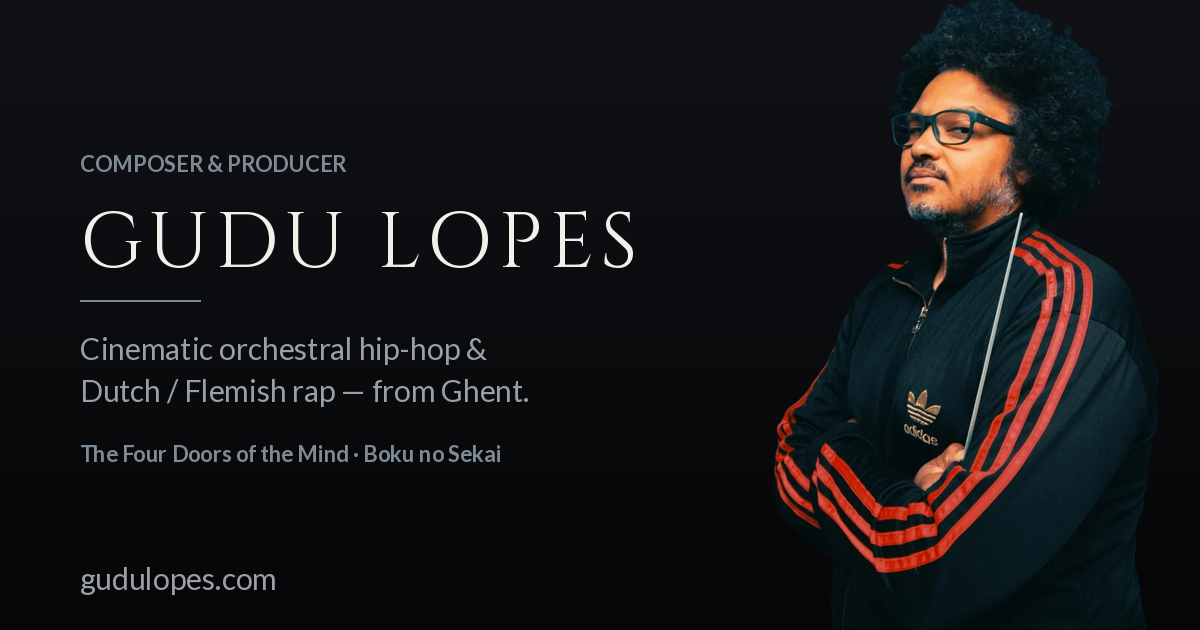
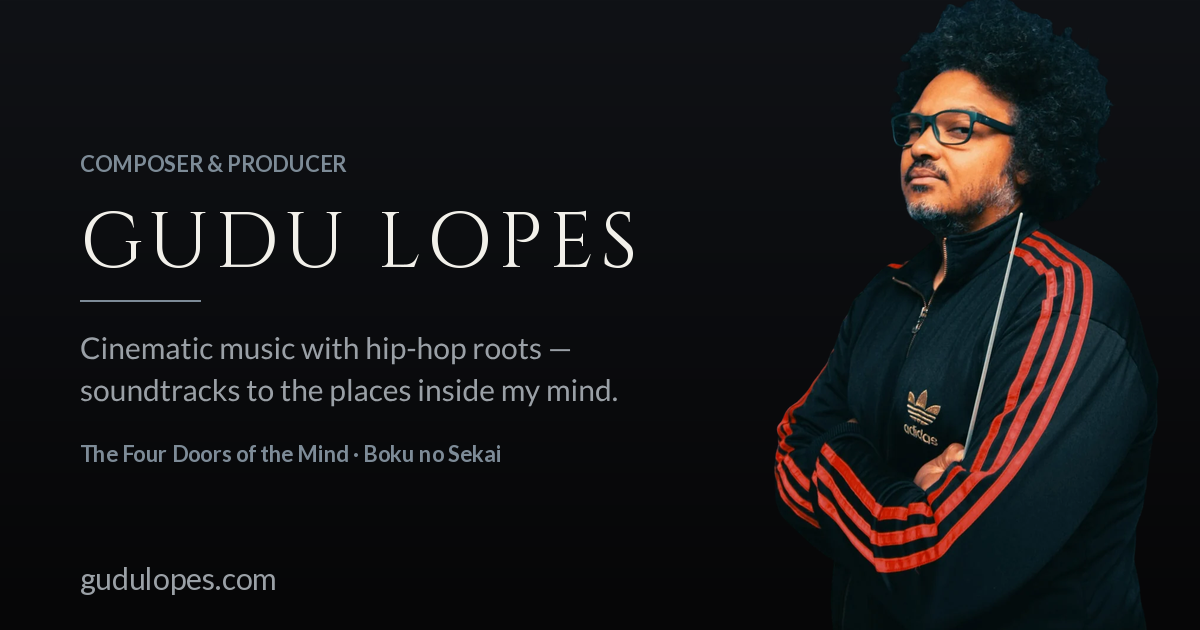
v3.7: new tagline and definition (decided 5 Nov 2026)
- Homepage tagline: "Cinematic music with hip-hop roots — soundtracks to
  the places inside my mind."
- Definition added as the first paragraph of the About section; the
  overlapping Four Doors sentence removed from the old bio
- Homepage search/share description opens with the third-person tagline
- og-image.png: old genre line replaced by the new tagline (same font,
  size, position)
- HANDOFF.md changelog

Claude-Session: https://claude.ai/code/session_0131rdzpW8RGRXcQddgxGeya

Changed region(s): [[0.0617, 0.6032, 0.5242, 0.6635], [0.0617, 0.5429, 0.4625, 0.573]]

diff --git a/index.html b/index.html
@@ -7,12 +7,12 @@
     <!-- EDIT: PAGE TITLE (browser tab + Google result) -->
     <title>Gudu Lopes | Composer &amp; Producer</title>
     <!-- EDIT: SEARCH DESCRIPTION -->
-    <meta name="description" content="Gudu Lopes — composer and producer from Ghent, Belgium. Cinematic orchestral hip-hop (Four Doors of the Mind) and Dutch/Flemish rap (Boku no Sekai). Listen on Spotify, Apple Music and YouTube.">
+    <meta name="description" content="Cinematic music with hip-hop roots — soundtracks to the places inside his mind. Gudu Lopes, composer and producer from Ghent, Belgium. Listen on Spotify, Apple Music and YouTube.">
 
     <meta property="og:type" content="music.musician">
     <meta property="og:site_name" content="Gudu Lopes">
     <meta property="og:title" content="Gudu Lopes | Composer &amp; Producer">
-    <meta property="og:description" content="Gudu Lopes — composer and producer from Ghent, Belgium. Cinematic orchestral hip-hop (Four Doors of the Mind) and Dutch/Flemish rap (Boku no Sekai). Listen on Spotify, Apple Music and YouTube.">
+    <meta property="og:description" content="Cinematic music with hip-hop roots — soundtracks to the places inside his mind. Gudu Lopes, composer and producer from Ghent, Belgium. Listen on Spotify, Apple Music and YouTube.">
     <meta property="og:url" content="https://gudulopes.com/">
     <meta property="og:image" content="https://gudulopes.com/assets/images/og-image.png">
     <meta property="og:image:width" content="1200">
@@ -75,7 +75,7 @@
                 <div class="hero-text">
                     <h1>GUDU LOPES</h1>
                     <!-- EDIT: TAGLINE -->
-                    <p class="tagline">Composer &amp; producer from Ghent — from orchestral hip-hop to Dutch rap.</p>
+                    <p class="tagline">Cinematic music with hip-hop roots — soundtracks to the places inside my mind.</p>
                 </div>
                 <!-- EDIT: HERO FIGURE — swap the src to change the photo. -->
                 <figure class="hero-figure">
@@ -168,8 +168,10 @@
                         <img src="assets/images/gudu-portrait.webp" alt="Gudu Lopes as his conductor persona Innah Chill Do, arms crossed and holding a baton" width="653" height="1100" loading="lazy">
                     </figure>
                     <div class="bio-text">
+                        <!-- Definition (decided 5 Nov 2026): keep this paragraph word for word. -->
+                        <p>Gudu Lopes writes cinematic music from his own life (family, memory, Cabo Verde, letting go) and from the fantasy worlds he loves, often both at once. His <strong>Four Doors of the Mind</strong> series follows how the mind deals with pain. He composes like a film composer and builds the tracks like a beatmaker.</p>
                         <p>Born in Cabo Verde and raised in Antwerp, Belgium, Gudu Lopes is a composer and producer based in Ghent. His journey began in 1997 with the hip-hop group <em>Rapperz van de Ronde Tafel</em>, where he first explored lyricism and beat-making — building tracks from samples lifted out of movie soundtracks.</p>
-                        <p>Still largely self-taught, Gudu is driven by a sound of his own: orchestral instruments woven through hip-hop rhythm. His <strong>Four Doors of the Mind</strong> series threads deeply human experiences — love, loss, longing — through a lifelong pull toward fantasy, sci-fi and anime. Alongside it, under the name <strong>G-Tone / Anubis</strong>, he writes and performs Dutch and Flemish rap — always as the composer behind the music.</p>
+                        <p>Still largely self-taught, Gudu is driven by a sound of his own: orchestral instruments woven through hip-hop rhythm. Alongside his cinematic work, under the name <strong>G-Tone / Anubis</strong>, he writes and performs Dutch and Flemish rap — always as the composer behind the music.</p>
                     </div>
                 </div>
             </div>

diff --git a/HANDOFF.md b/HANDOFF.md
@@ -274,6 +274,26 @@ comments. Change a value, commit, whole site updates.
 
 ## 11. Changelog
 
+**2026-11-05 — v3.7: new tagline and definition**
+- **Homepage tagline** (under the name) is now: "Cinematic music with
+  hip-hop roots — soundtracks to the places inside my mind." Replaces
+  "Composer & producer from Ghent — from orchestral hip-hop to Dutch rap."
+  _Why (decided in the release project, 5 Nov 2026):_ it says what a visitor
+  will hear instead of listing genres; Dutch rap moves to its own channel;
+  first person matches the site's voice; "roots", not "beats", stays true for
+  the ambient tracks. Don't revert.
+- **Definition** added as the first paragraph of the homepage About section,
+  word for word. The old sentence "His Four Doors of the Mind series threads
+  deeply human experiences…" was removed because the definition now says it;
+  "Alongside it" became "Alongside his cinematic work".
+- **Search / share description** of the homepage now opens with the
+  third-person tagline ("…inside his mind").
+- **`og-image.png`** (the card shown when the site is shared): the line
+  "Cinematic orchestral hip-hop & Dutch / Flemish rap — from Ghent." replaced
+  by the new tagline, same font, size and position. Nothing else on the card
+  changed. Social apps cache this image, so old shares may show the old card
+  for a while.
+
 **2026-10-22 — v3.6: streaming card de-duplicated, Bandcamp added**
 - The "or streaming my music on" row no longer repeats Spotify and YouTube
   (they are already the two Follow / Subscribe buttons above it). Row is now
